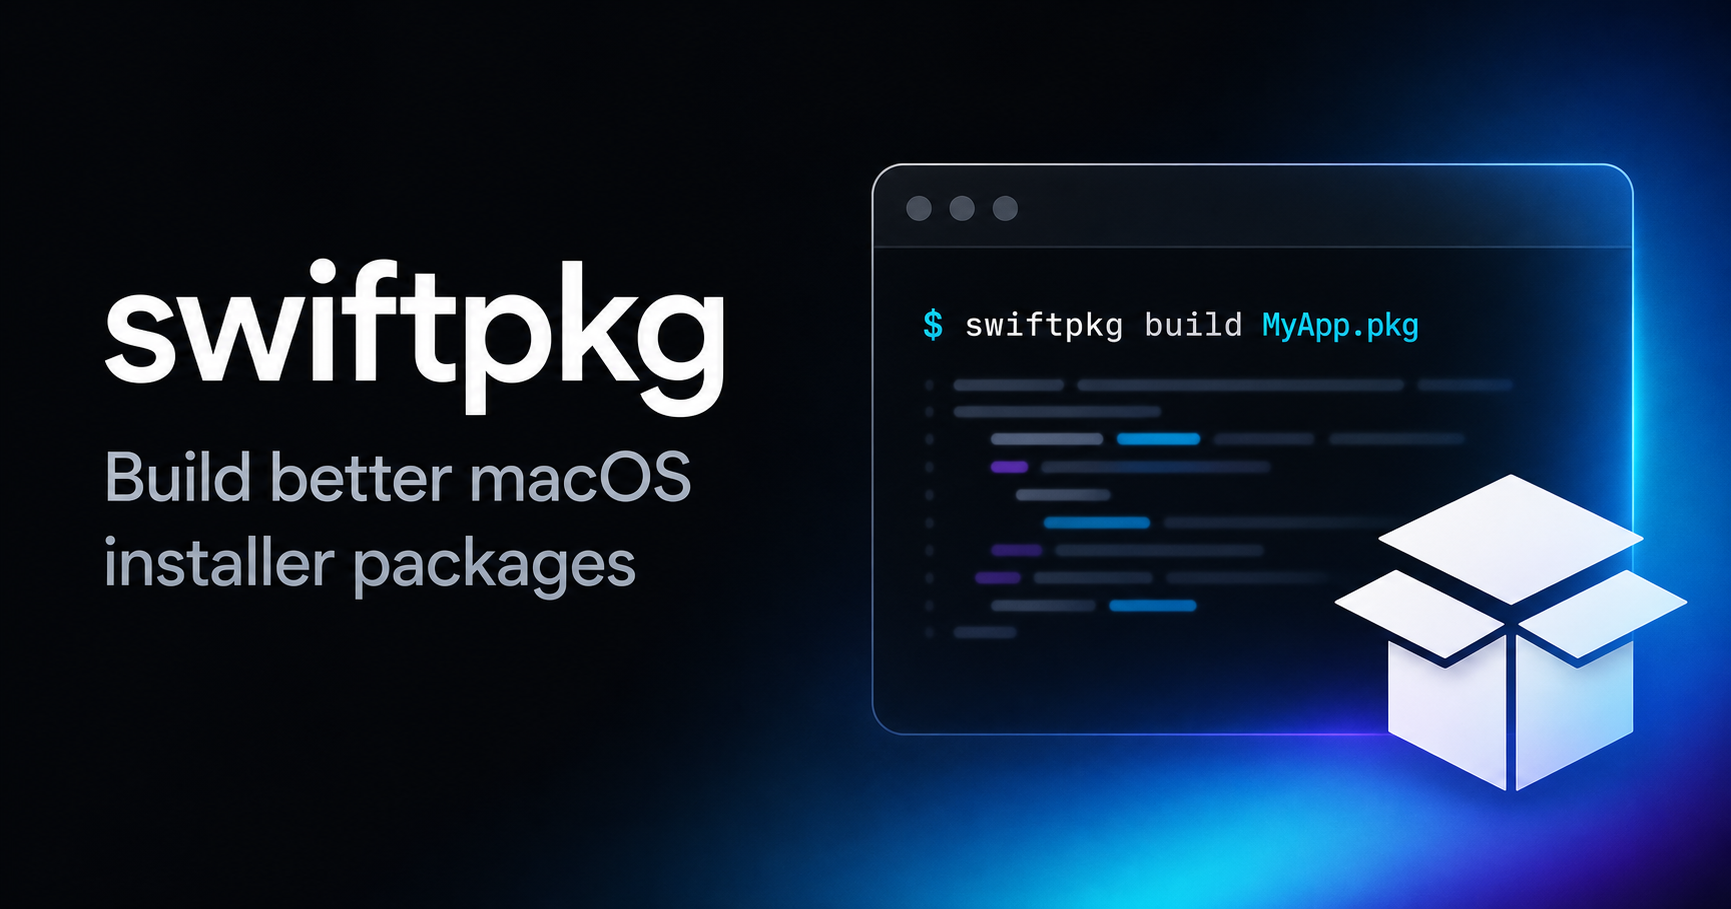
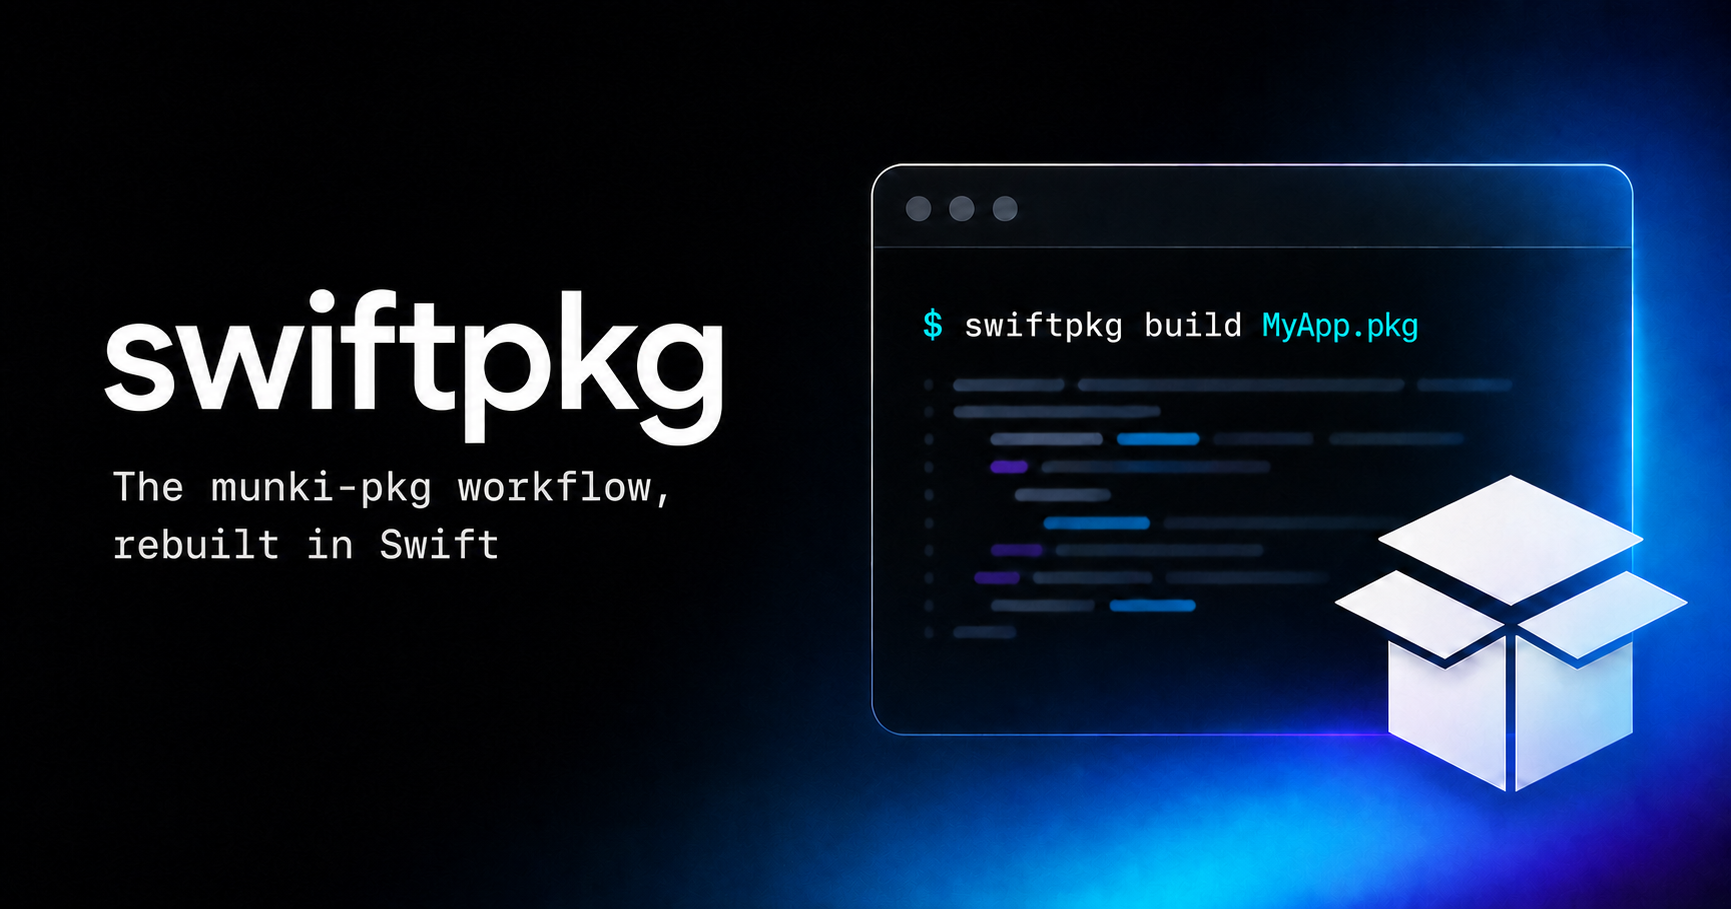
update tagline

diff --git a/site/index.html b/site/index.html
@@ -32,7 +32,7 @@
   <main id="main">
     <section class="hero">
       <div class="hero-copy">
-        <p class="eyebrow"><span></span> A focused tool for Mac admins</p>
+        <p class="eyebrow"><span></span> The munki-pkg workflow, rebuilt in Swift</p>
         <h1>Build better<br><em>macOS</em> installer packages.</h1>
         <p class="lede">A native command-line tool for turning clean, version-controlled project directories into dependable Apple installer packages.</p>
         <div class="hero-actions">
